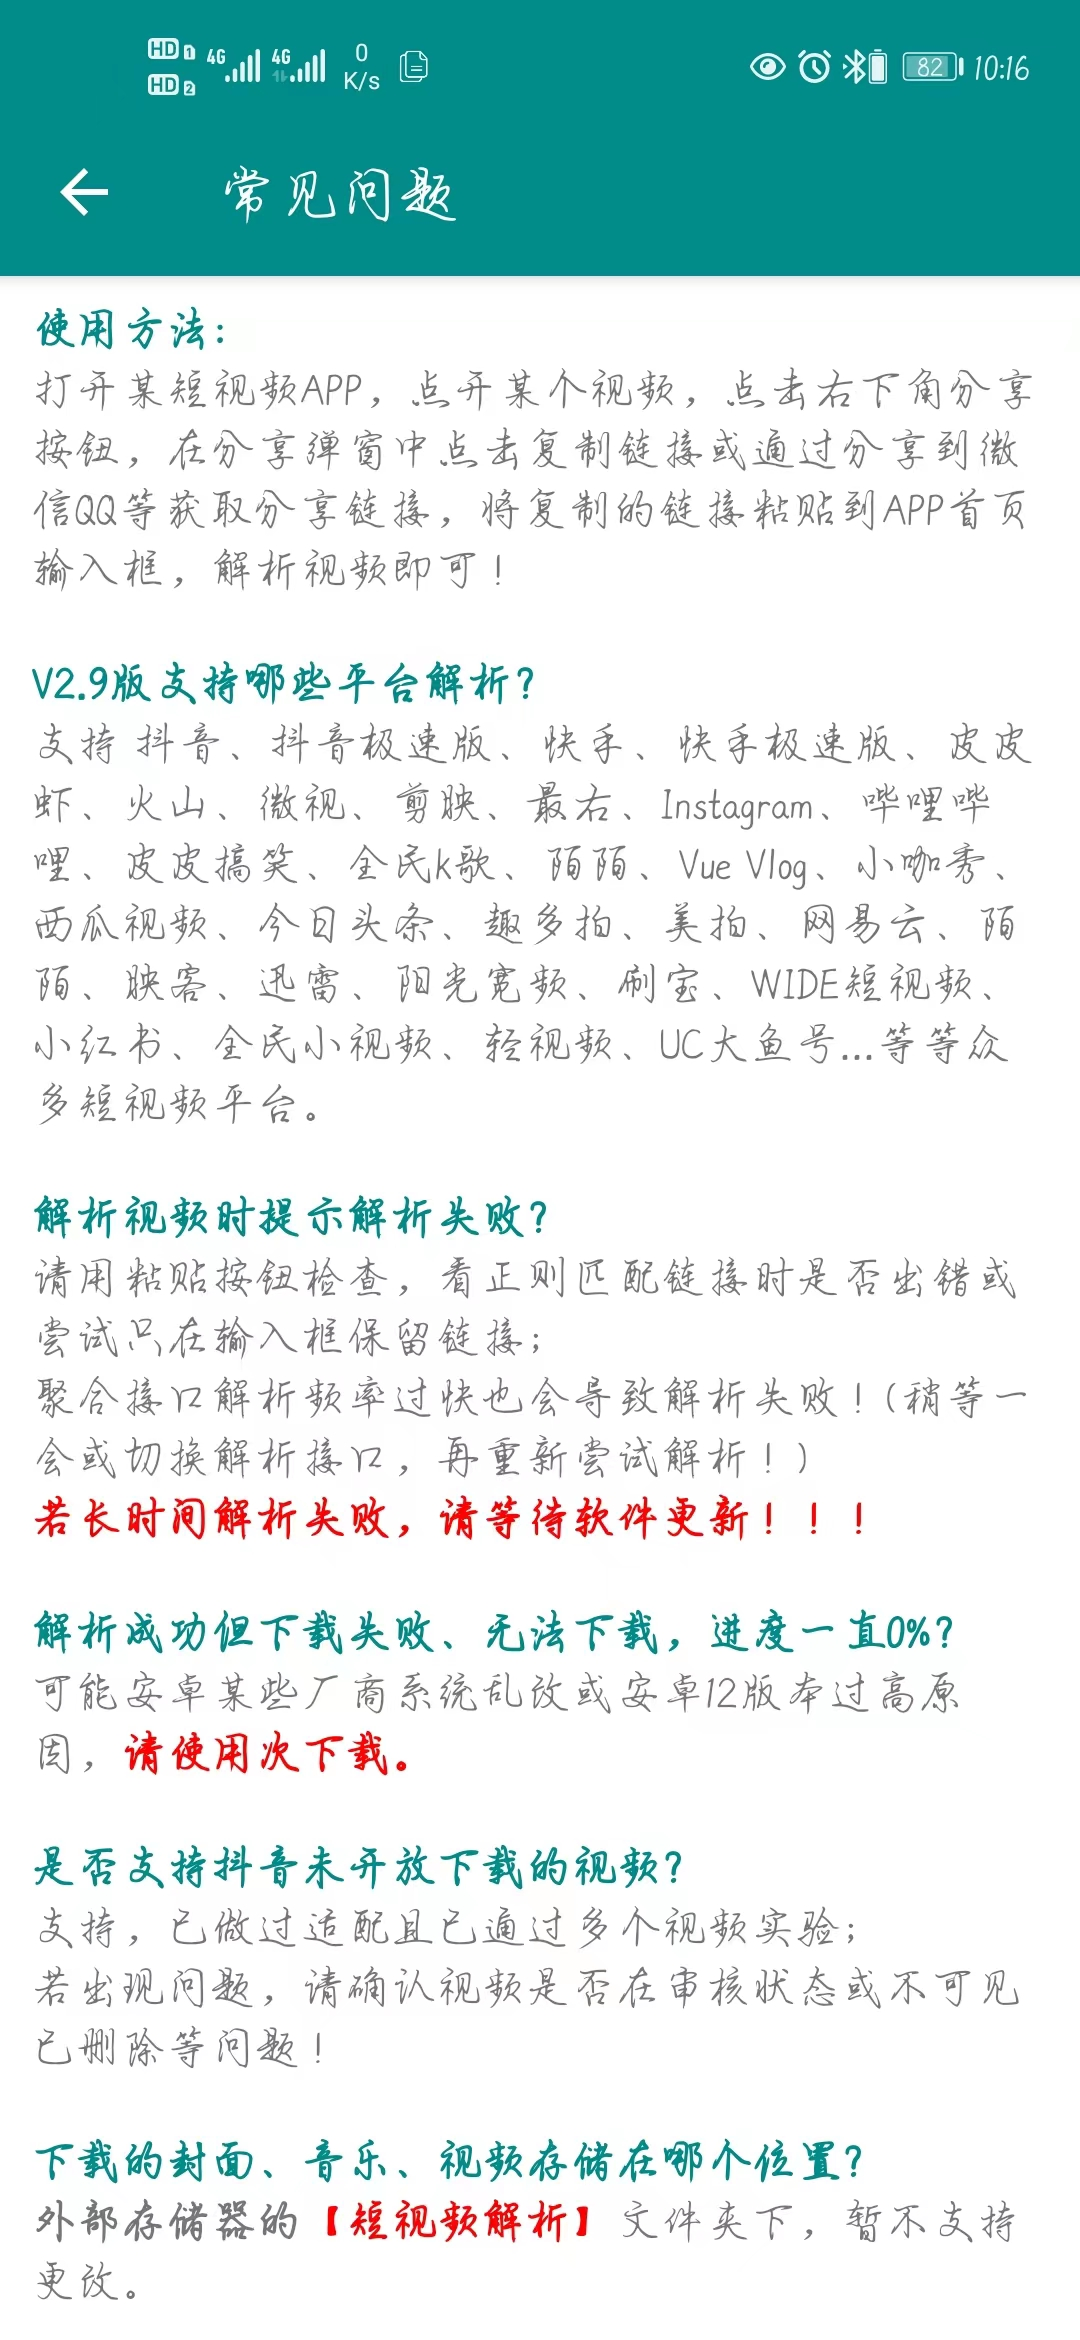
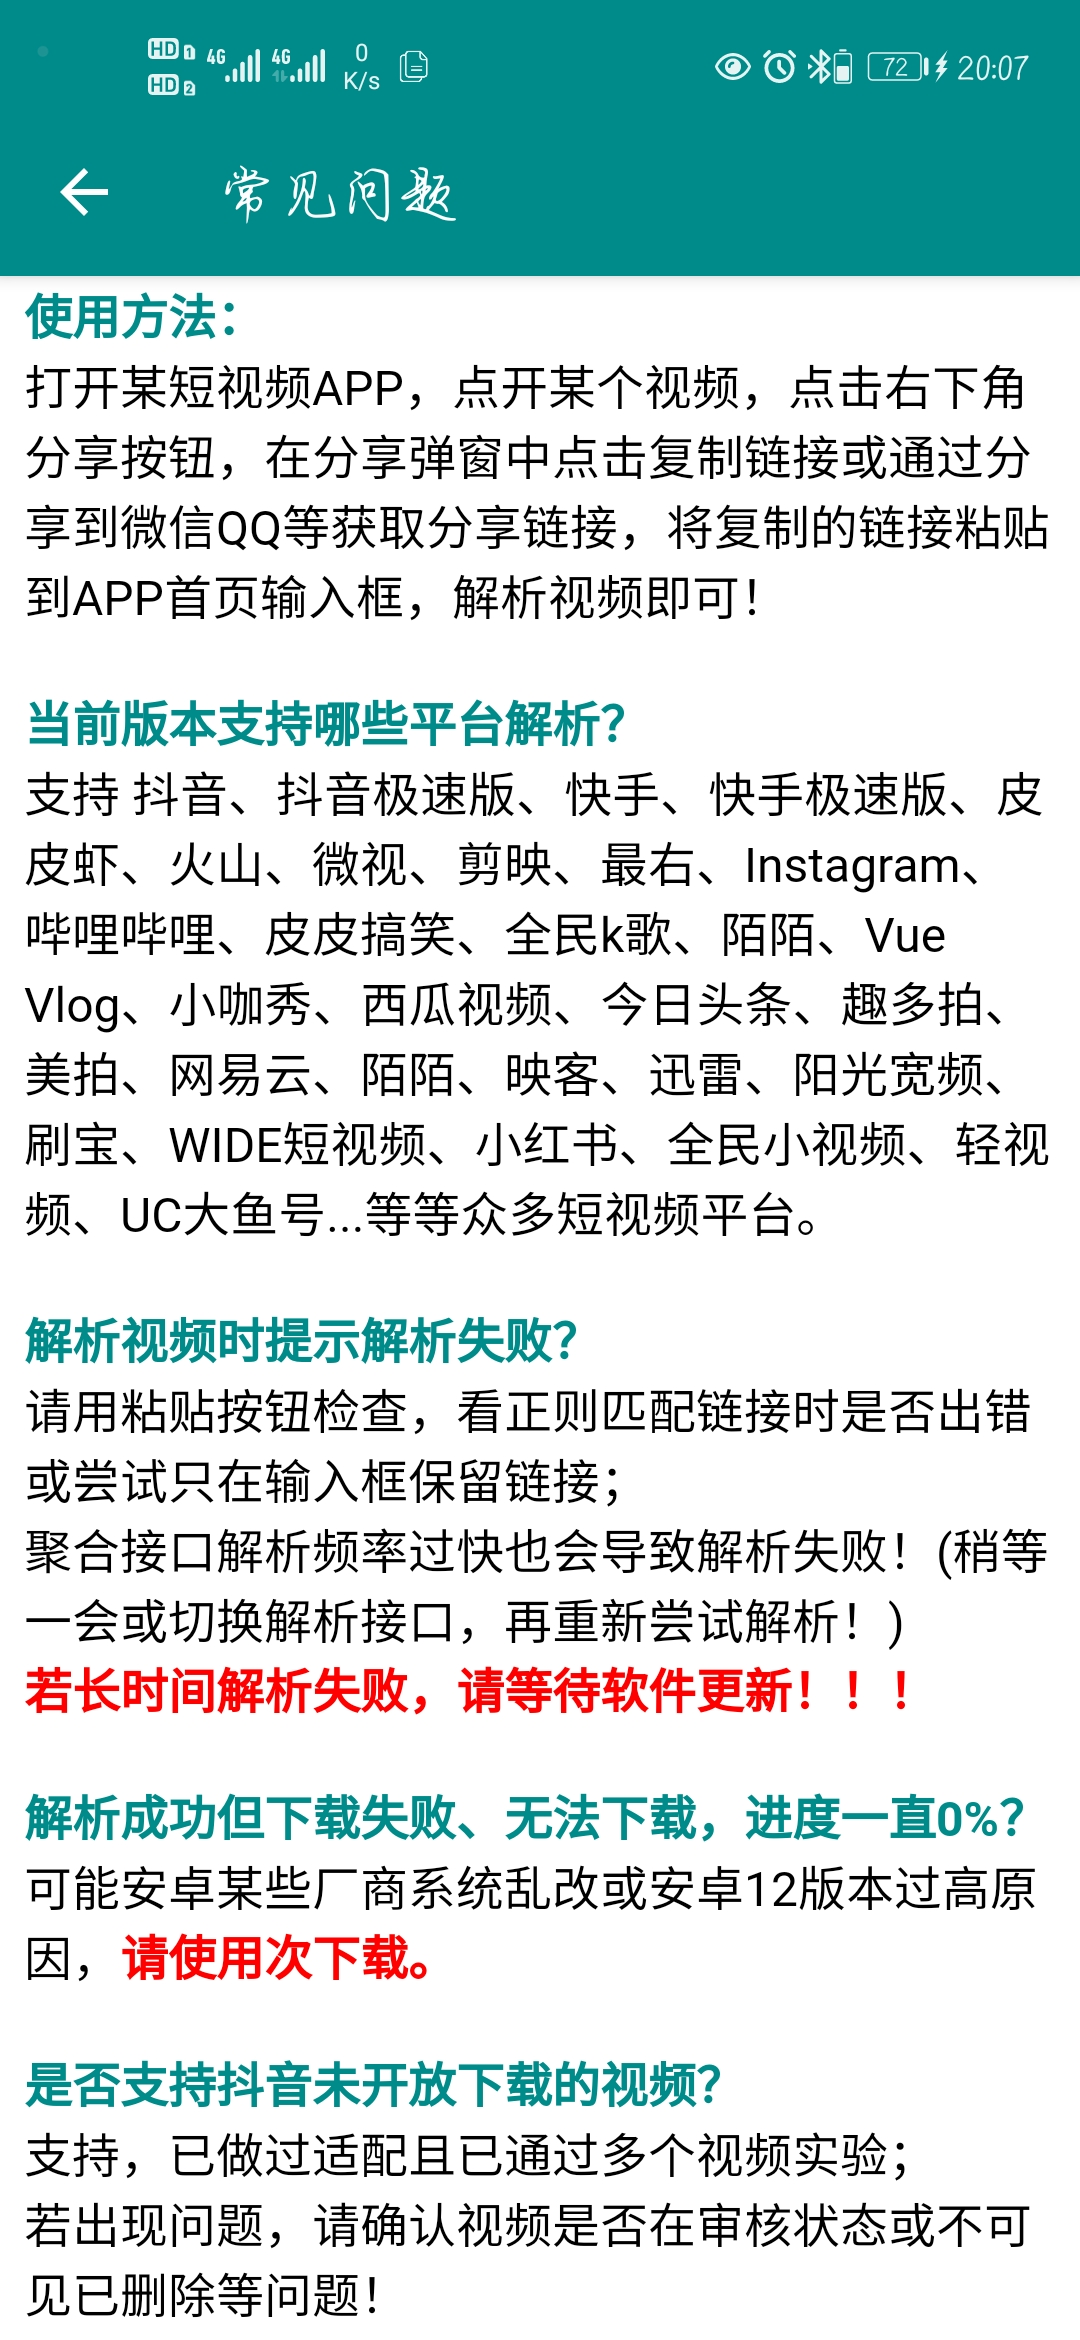
短视频解析更新10_3.0

diff --git a/home/jx/index.html b/home/jx/index.html
@@ -16,23 +16,25 @@
     <ul><b>短视频解析</b></ul>
     <p>界面简单/功能强大的聚合短视频解析应用</p>
     <dd>
-        <button onclick="window.location.href='https://yirj.lanzoub.com/iCr83077exvi'">立即下载(V2.9)</button>
+        <button onclick="window.location.href='https://yirj.lanzoub.com/ipC1V088hn9g'">立即下载(V3.0)</button>
     </dd>
 </div>
 <div class="title">软件截图-左右滑动查看更多</div>
 <div class="show">
     <div class="pic">
+        <img src="img/jx0.jpg">
         <img src="img/jx1.jpg">
         <img src="img/jx2.jpg">
         <img src="img/jx3.jpg">
         <img src="img/jx4.jpg">
         <img src="img/jx5.jpg">
         <img src="img/jx6.jpg">
+        <img src="img/jx7.jpg">
     </div>
 </div>
 <div class="title">官方说明-短视频解析介绍</div>
 <div class="show">
-    <b>V2.9版支持哪些平台解析？</b>
+    <b>支持哪些平台解析？</b>
     <br>支持
     抖音、抖音极速版、快手、快手极速版、皮皮虾、火山、微视、剪映、最右、哔哩哔哩、皮皮搞笑、全民k歌、陌陌、小咖秀、西瓜视频、今日头条、趣多拍、美拍、网易云、陌陌、映客、迅雷、阳光宽频、刷宝、WIDE短视频、小红书、全民小视频、轻视频、UC大鱼号...等等众多短视频平台。
 </div>
@@ -57,7 +59,8 @@
     }
 </script>
 
-<script type="text/javascript" src="js/yinghua.js"></script>
+<!--花瓣飘落特效-->
+<!--<script type="text/javascript" src="js/yinghua.js"></script>-->
 
 <!--顶部水波纹风格样式-->
 <style>

diff --git a/update/jx.html b/update/jx.html
@@ -12,11 +12,11 @@
     let data =
         {
             "NoIgnorable": false, //不可忽略的更新
-            "versionCode": 9,   //服务端的版本号
-            "versionName": "2.9", //服务端的版本名
-            "updateLog": "\n1、修复视频聚合解析异常。\n2、优化常见问题部分解答。\n3、开发维护不易请捐赠支持作者。", //更新内容
-            "webUrl": "https://yirj.lanzoub.com/iCr83077exvi",//浏览器下载APK的网址
-            "apkSize": "4.18MB" //新版本的大小
+            "versionCode": 10,   //服务端的版本号
+            "versionName": "3.0", //服务端的版本名
+            "updateLog": "1、优化视频聚合解析。\n2、新增关于软件界面。\n3、新增用户协议及隐私政策。\n4、优化常见问题界面内容。\n5、新增软件官网分享朋友功能。\n6、优化捐赠支持功能。", //更新内容
+            "webUrl": "https://yirj.lanzoub.com/ipC1V088hn9g",//浏览器下载APK的网址
+            "apkSize": "4.28MB" //新版本的大小
         };
     btn.textContent = JSON.stringify(data, null, 2);
 </script>
